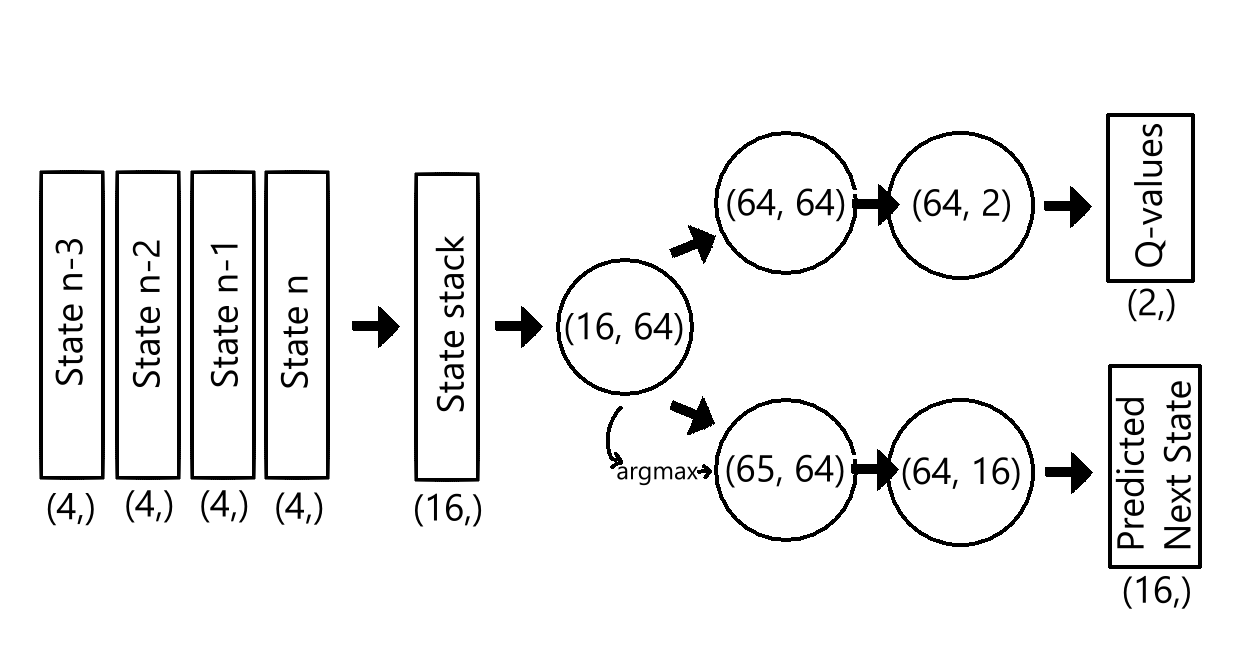
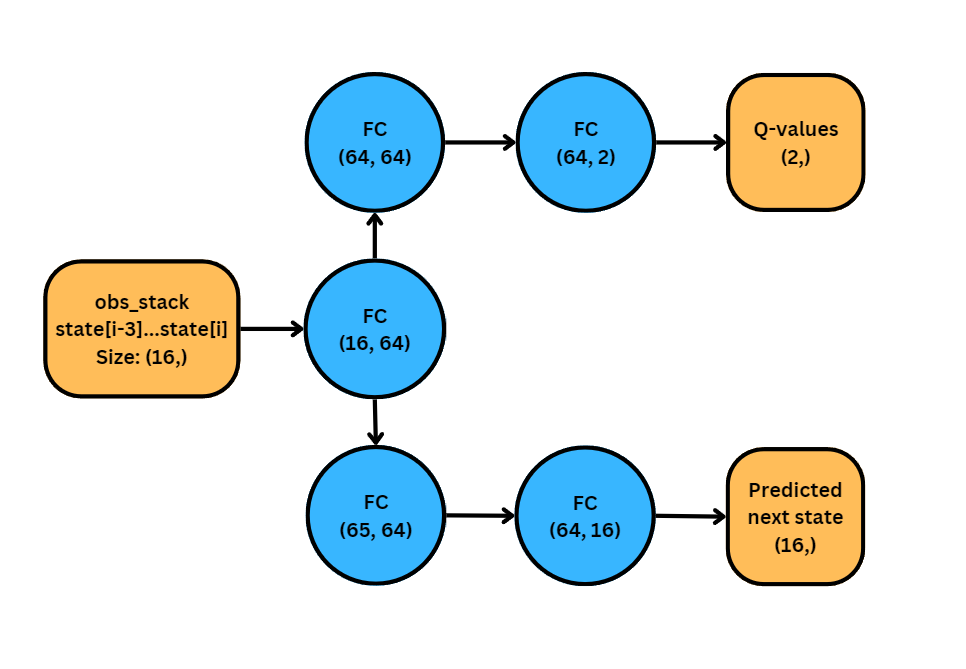
Updated readme with more pictures

Changed region(s): [[0.0311, 0.092, 0.9627, 0.9202], [0.7143, 0.3681, 0.8075, 0.4294], [0.5901, 0.3988, 0.6522, 0.4294]]

diff --git a/README.md b/README.md
@@ -1,8 +1,15 @@
 # Cartpole-V1 consistent max-score in about 10,000 frames
 
-This is a model-based Double-DQN policy. The architecture is show below:
+This is a model-free Double-DQN policy, which uses a sub-policy of predicting the next action to improve training.
 
+## Architecture
 ![Architecture](images/model_architecture.png)
+
+## Inference
+![Inference Graph](images/inference_graph.png)
+
+## Training
+![Training Graph](images/training_graph.png)
 
 It is commonly thought that reinforcement learning methods (particularly DQN) need millions of training samples to reach optimality.
 In the case of cartpole-v1 the number of states `4^n`, where `n` is the amount of sub-segements 1 unit of the number line is broken into into. However, the transitions between states are relatively continuous and therefore should easily be graphed. In-fact cartpole v1 has been solved in 0-shot learning with other algorithms.
@@ -37,4 +44,3 @@ DISABLE_RANDOM = False # Disable epsilon_greedy exploration function. [Default: 
 SAVING_ENABLED = False # Enable saving of model files. [Default: True]
 LEARNING_ENABLED = True # Enable model training. [Default: True]
 ```
-
